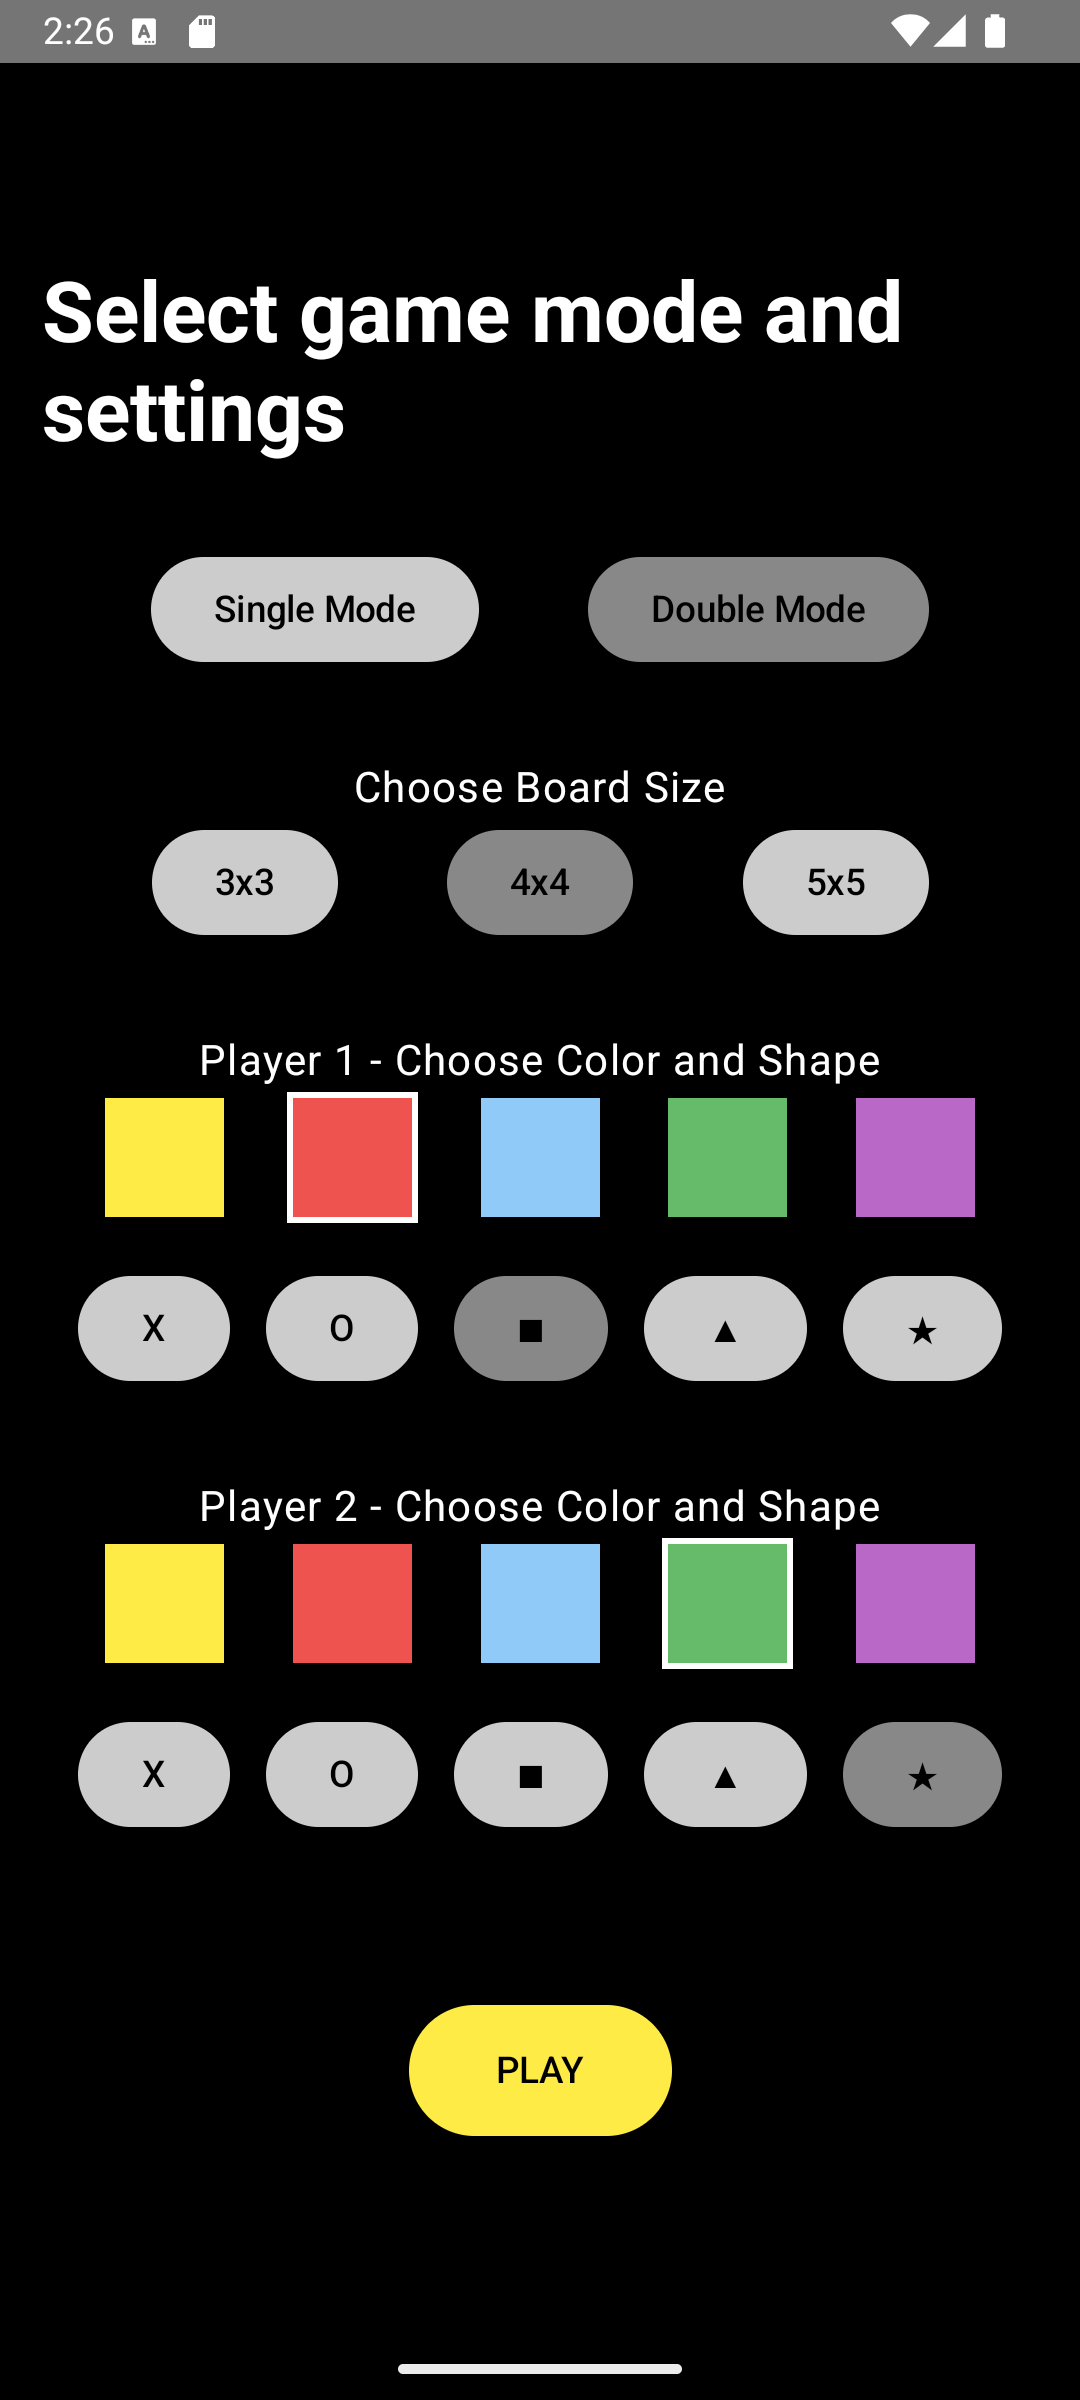
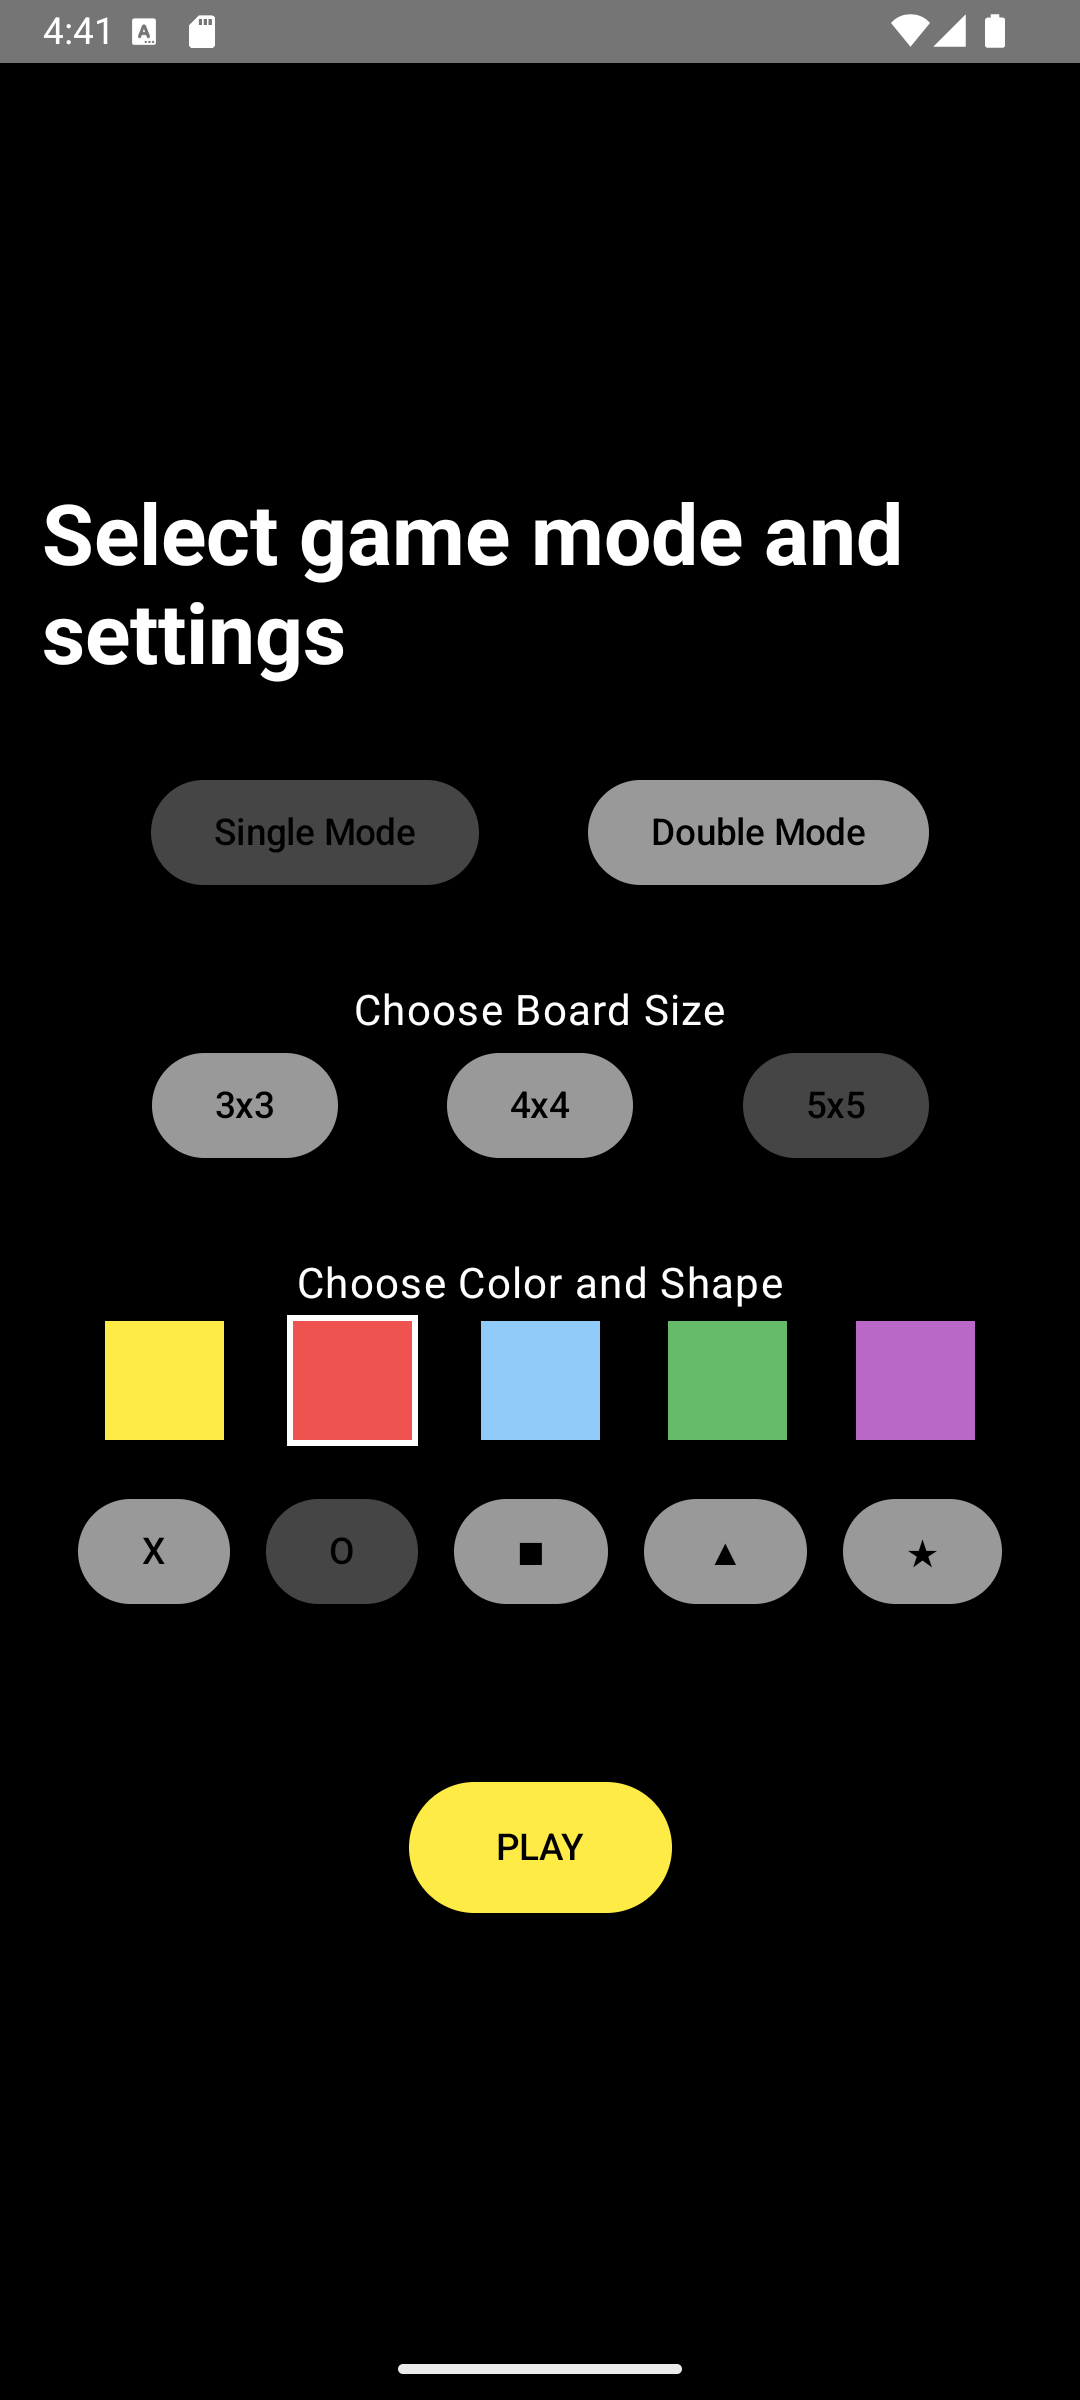
Colors update

Changed region(s): [[0.0611, 0.3125, 0.9472, 0.9062], [0.0306, 0.0938, 0.8556, 0.2812], [0.0306, 0.0, 0.0917, 0.0312]]

diff --git a/Kotlin/app/src/main/java/com/example/tictactoe/StartScreen.kt b/Kotlin/app/src/main/java/com/example/tictactoe/StartScreen.kt
@@ -105,7 +105,7 @@ fun StartScreen(onStartGame: (GameSettings) -> Unit) {
 
             if (selectedMode == GameMode.SINGLE_MODE) {
                 // Opcje dla trybu Single Mode
-                Text(text = "Choose Your Color and Shape", color = TextColor)
+                Text(text = "Choose Color and Shape", color = TextColor)
 
                 // Wybór koloru dla gracza
                 Row(
@@ -118,7 +118,7 @@ fun StartScreen(onStartGame: (GameSettings) -> Unit) {
                                 .size(50.dp)
                                 .background(color)
                                 .clickable { player1Color = color }
-                                .border(2.dp, if (player1Color == color) TextColor else Black)
+                                .border(2.dp, if (player1Color == color) BorderColor2 else BorderColor3)
                         )
                     }
                 }
@@ -167,7 +167,7 @@ fun StartScreen(onStartGame: (GameSettings) -> Unit) {
                                 .clickable {
                                     if (color != player2Color) player1Color = color
                                 }
-                                .border(2.dp, if (player1Color == color) TextColor else Black)
+                                .border(2.dp, if (player1Color == color) BorderColor2 else BorderColor3)
                         )
                     }
                 }
@@ -207,7 +207,7 @@ fun StartScreen(onStartGame: (GameSettings) -> Unit) {
                                 .clickable {
                                     if (color != player1Color) player2Color = color
                                 }
-                                .border(2.dp, if (player2Color == color) TextColor else Black)
+                                .border(2.dp, if (player2Color == color) BorderColor2 else BorderColor3)
                         )
                     }
                 }

diff --git a/Kotlin/app/src/main/java/com/example/tictactoe/ui/theme/Color.kt b/Kotlin/app/src/main/java/com/example/tictactoe/ui/theme/Color.kt
@@ -10,8 +10,11 @@ val Purple200 = Color(0xFFBA68C8)
 
 val BackgroundColor = Color(0xFF000000)
 val TextColor = Color(0xFFFFFFFF)
-val BorderColor = Color(0xFFFFEB46)
 
-val Gray = Color.Gray
-val LightGray = Color.LightGray
-val Black = Color.Black
+val BorderColor = Color(0xFFFFEB46)
+val BorderColor2 = Color(0xFFFFFFFF)
+val BorderColor3 = Color(0xFF000000)
+
+val Gray =  Color(0xFF454545)
+val LightGray =  Color(0xFF999999)
+

diff --git a/Kotlin/README.md b/Kotlin/README.md
@@ -27,7 +27,7 @@ Aplikacja stworzona w Kotlinie z wykorzystaniem Jetpack Compose.
 
 5. **Folder ui.theme**
     - **Color.kt** – Definicje kolorów.
-    - **Theme.kt`** – Ustawienia motywu aplikacji.
+    - **Theme.kt** – Ustawienia motywu aplikacji.
     - **Type.kt** – Definicje stylów tekstu.
 
 ---
@@ -45,11 +45,16 @@ Aplikacja stworzona w Kotlinie z wykorzystaniem Jetpack Compose.
 ## Przykładowe zrzuty ekranu 
 - Ekran konfiguracji gry
 ![img.png](img.png)
-- Rozgrywka w toku  
 ![img_1.png](img_1.png)
-- Ekran wyników
+
+- Rozgrywka w toku  
+![img_4.png](img_4.png)
 ![img_2.png](img_2.png)
- 
+![img_3.png](img_3.png)
+
+- Ekran wyników
+![img_5.png](img_5.png)
+![img_6.png](img_6.png)
 
 ---
 
